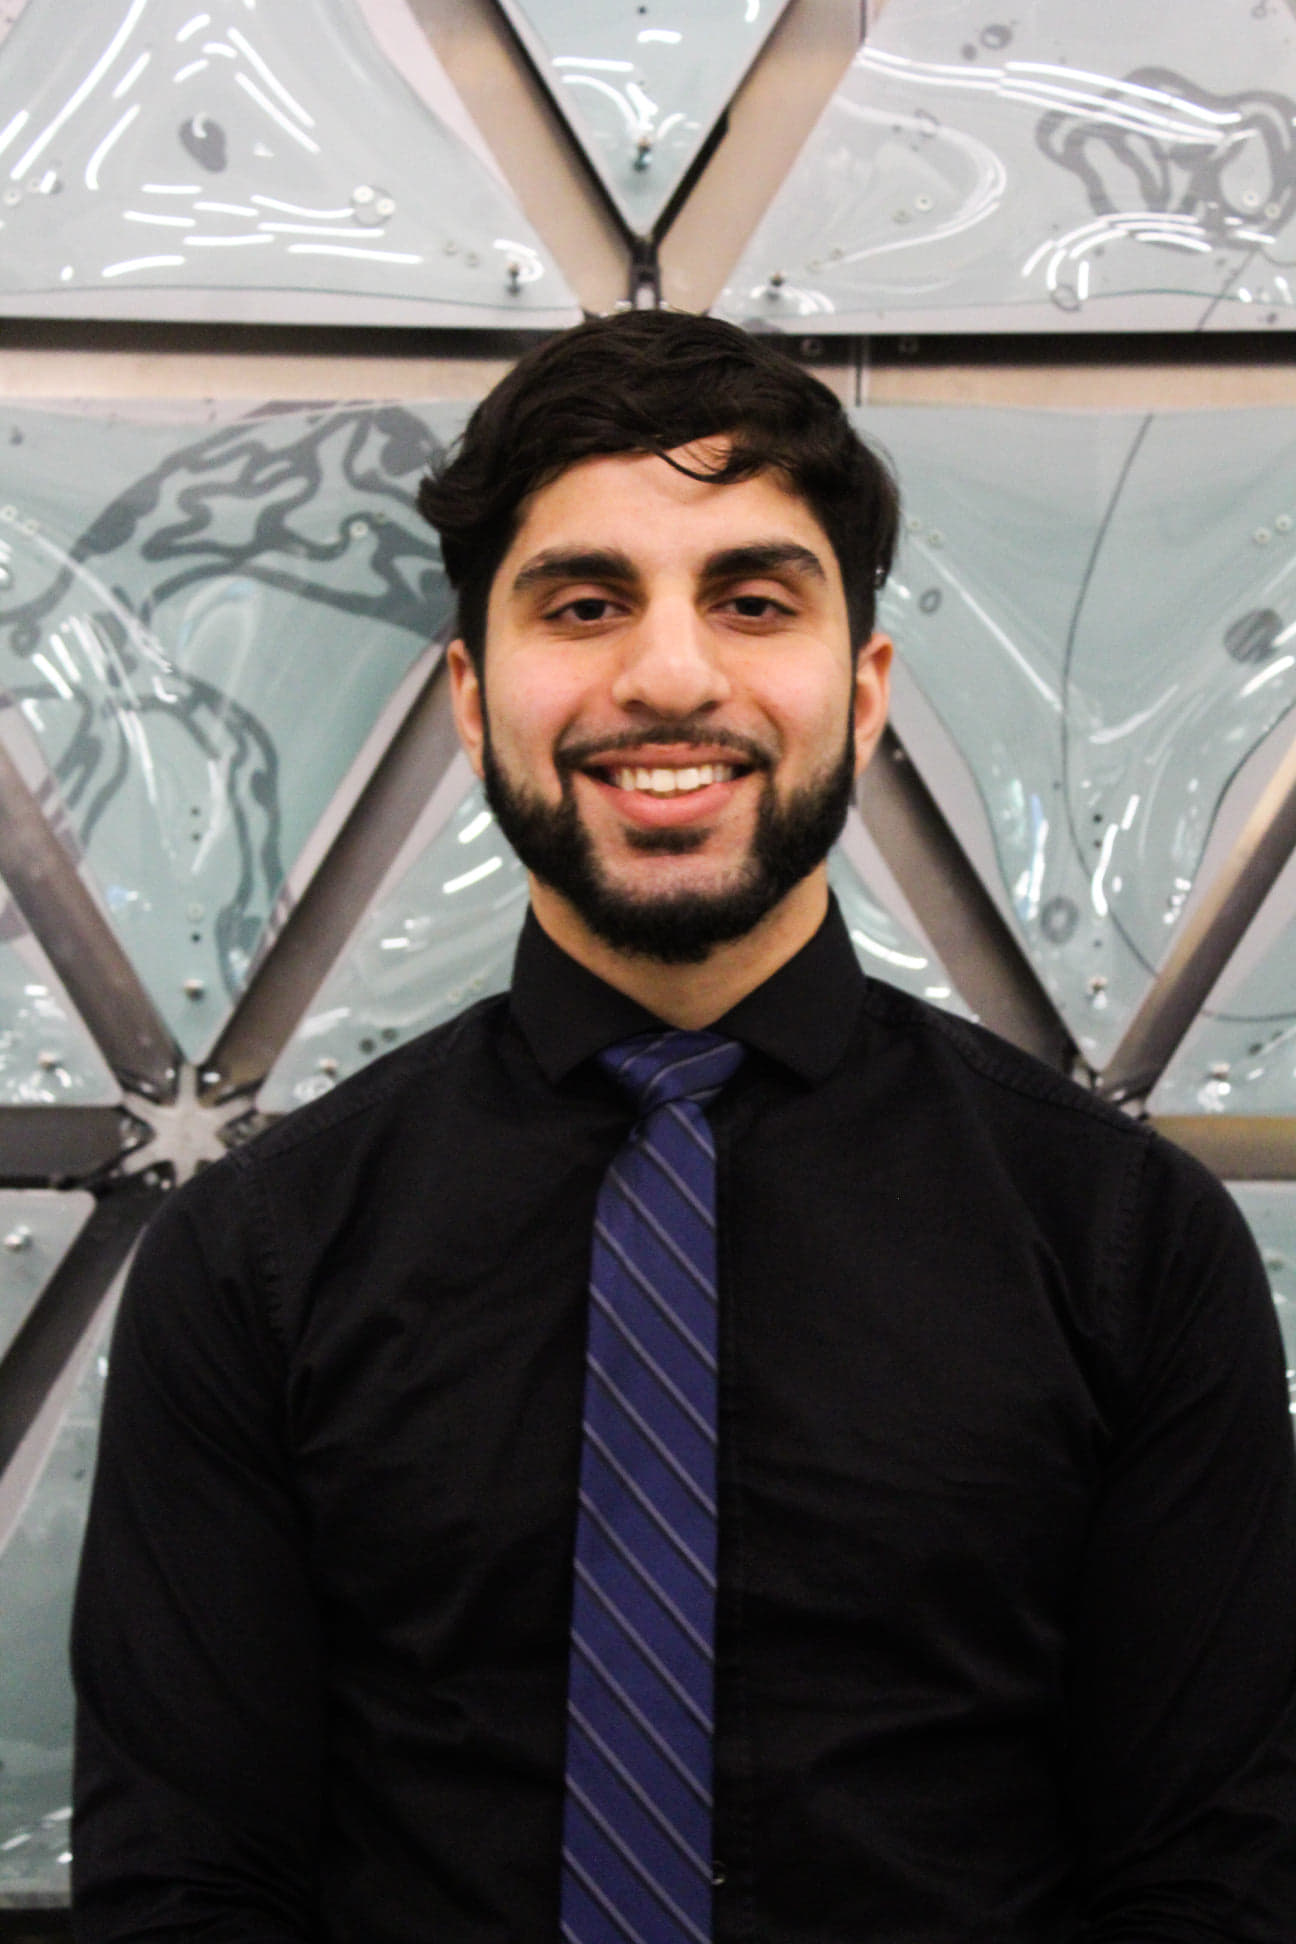
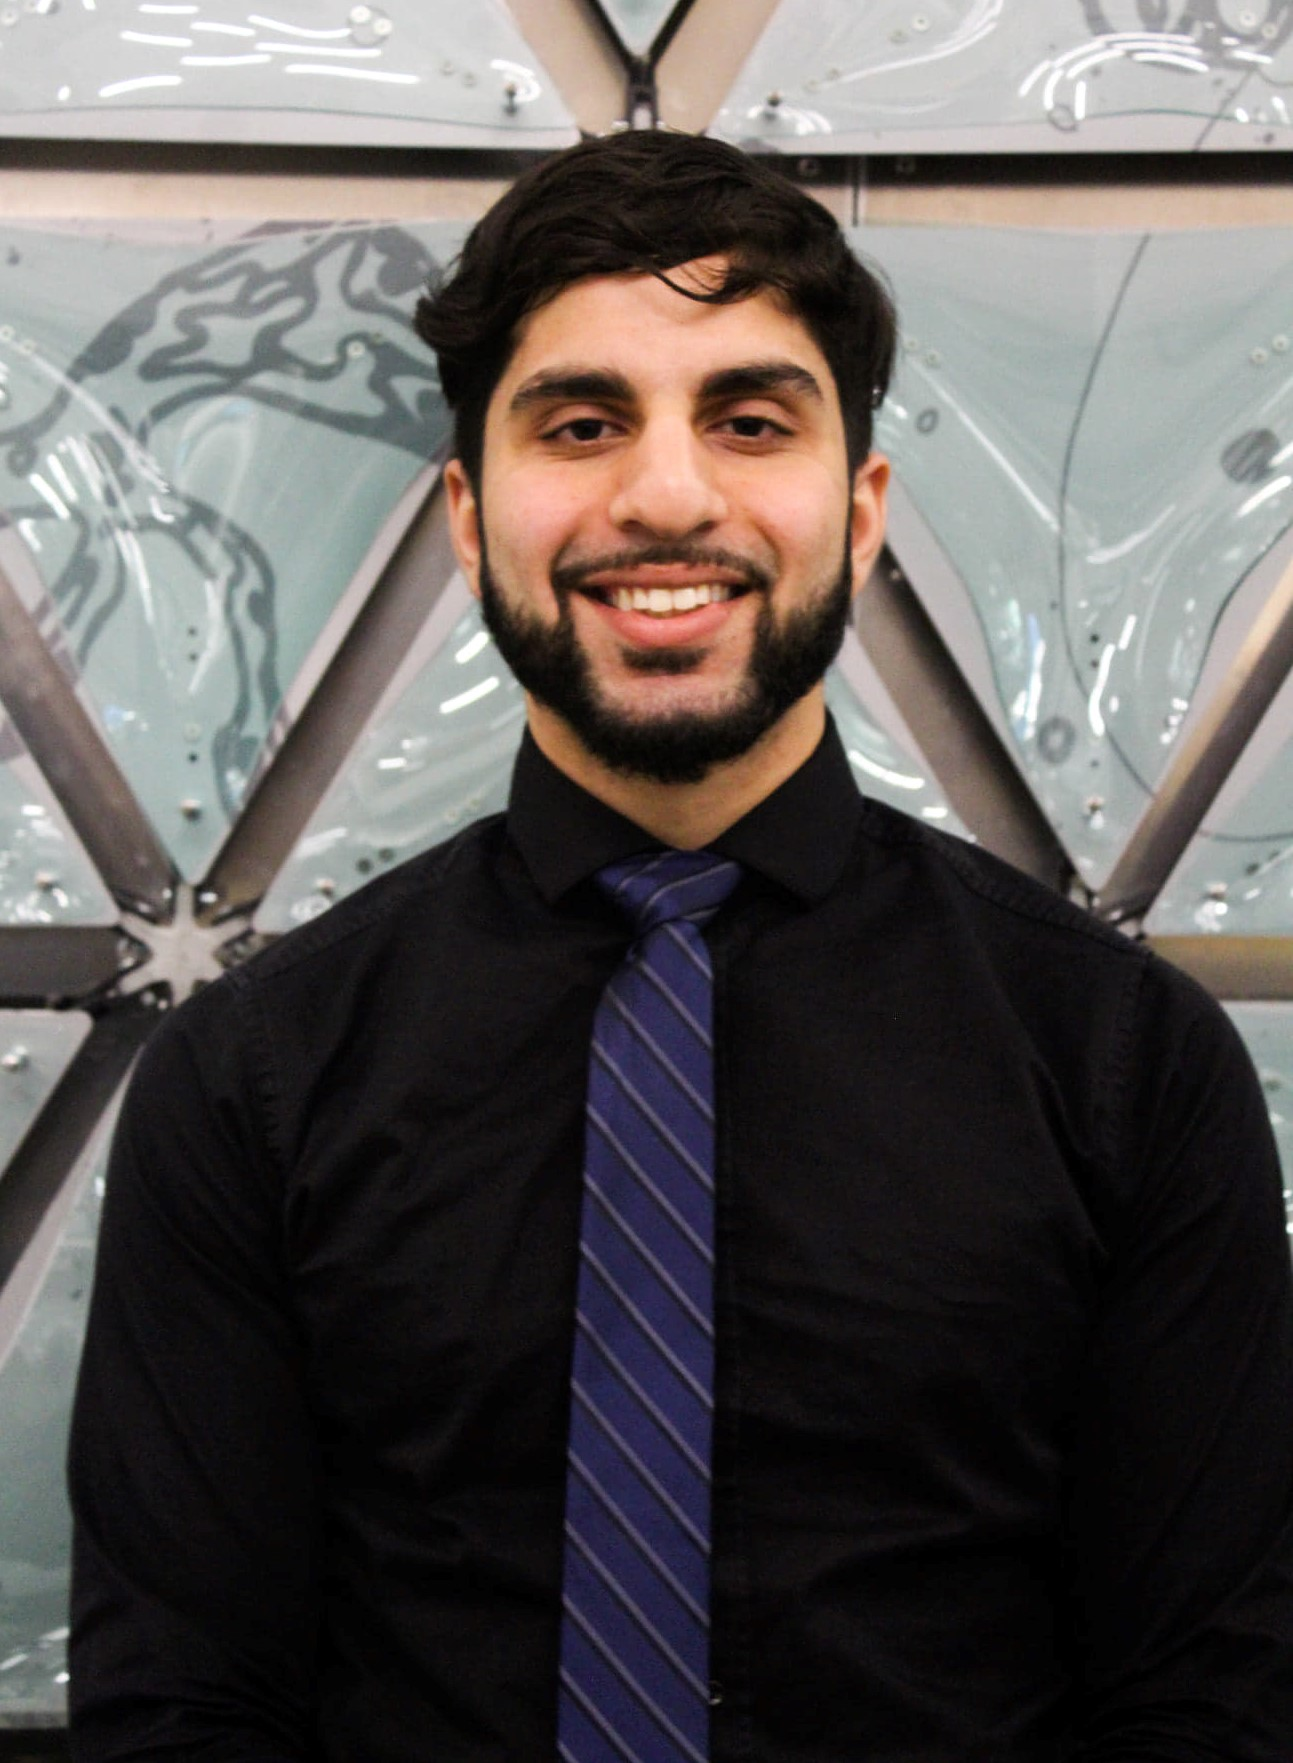
more css

diff --git a/src/scss/aboutMe.scss b/src/scss/aboutMe.scss
@@ -9,10 +9,10 @@
     rgba(32, 32, 32, 1) 100%
   );
 */
-  background: rgba($color: #424242, $alpha: 1);
+  background: rgba($color: #323638, $alpha: 1);
 
   min-height: 500px;
-  min-height: 100vh;
+  min-height: 80vh;
   height: fit-content;
   display: flex;
   flex-direction: column;
@@ -21,21 +21,29 @@
 .about-paragraph {
   @include paragraph();
   margin: auto;
+  width: 50%;
   color: rgb(248, 248, 248);
   margin: auto;
   margin-top: 2%;
   margin-right: 5%;
+  margin-left: 5%;
   float: right;
 }
 
-.about-photo {
-  min-width: 250px;
-  width: 60%;
+.about-photo-container {
+  width: 50%;
   height: auto;
-  border-radius: 50%;
   display: flex;
   margin: auto;
-  justify-self: center;
+  justify-content: center;
+}
+
+.about-photo {
+  margin-bottom: 5%;
+  display: flex;
+  min-width: 250px;
+  width: 50%;
+  border-radius: 50%;
 }
 
 .about-content {
@@ -76,8 +84,10 @@
   margin: 4% auto;
   width: 100%;
   justify-content: space-evenly;
-
   flex-direction: row;
+
+  a {
+  }
 }
 
 .about-icons {

diff --git a/src/components/AboutMe.js b/src/components/AboutMe.js
@@ -20,15 +20,15 @@ export const AboutMe = () => {
         <div className="about-me-subheader">Developer to the core.</div>
       </div>
       <div className="about-content">
-        <div>
+        <div className="about-photo-container">
           <img
             src={require('../images/linkedIn2.jpg')}
             className="about-photo"
             alt=""
           />
         </div>
-        <div>
-          <p className="about-paragraph">
+        <div className="about-paragraph">
+          <p className="about-words">
             Lorem, ipsum dolor sit amet consectetur adipisicing elit. Aliquam
             animi voluptate nam non porro itaque, officia molestiae earum
             laudantium iusto! Dolor id illo unde aliquid. Voluptatum ab

diff --git a/src/components/Contact.js b/src/components/Contact.js
@@ -19,7 +19,7 @@ export const Contact = () => {
             in touch with you.
           </p>
         </div>
-        <div className="form contact-form grey darken-3 center-align">
+        <div className="form contact-form center-align">
           <div className="input-field input-edit">
             <input id="name" type="text" className="validate text-inputs" />
             <label for="first_name" className="active">

diff --git a/src/scss/contact.scss b/src/scss/contact.scss
@@ -26,6 +26,7 @@
   flex-direction: column;
   justify-content: center;
   border-color: grey;
+  background-color: #323638;
   border-radius: 25px;
   border-style: solid;
   margin: auto;
@@ -40,7 +41,7 @@
 }
 
 .input-edit {
-  background-color: #424242;
+  background-color: #323638;
   border-radius: 6px;
   width: max-content;
   width: 80%;
